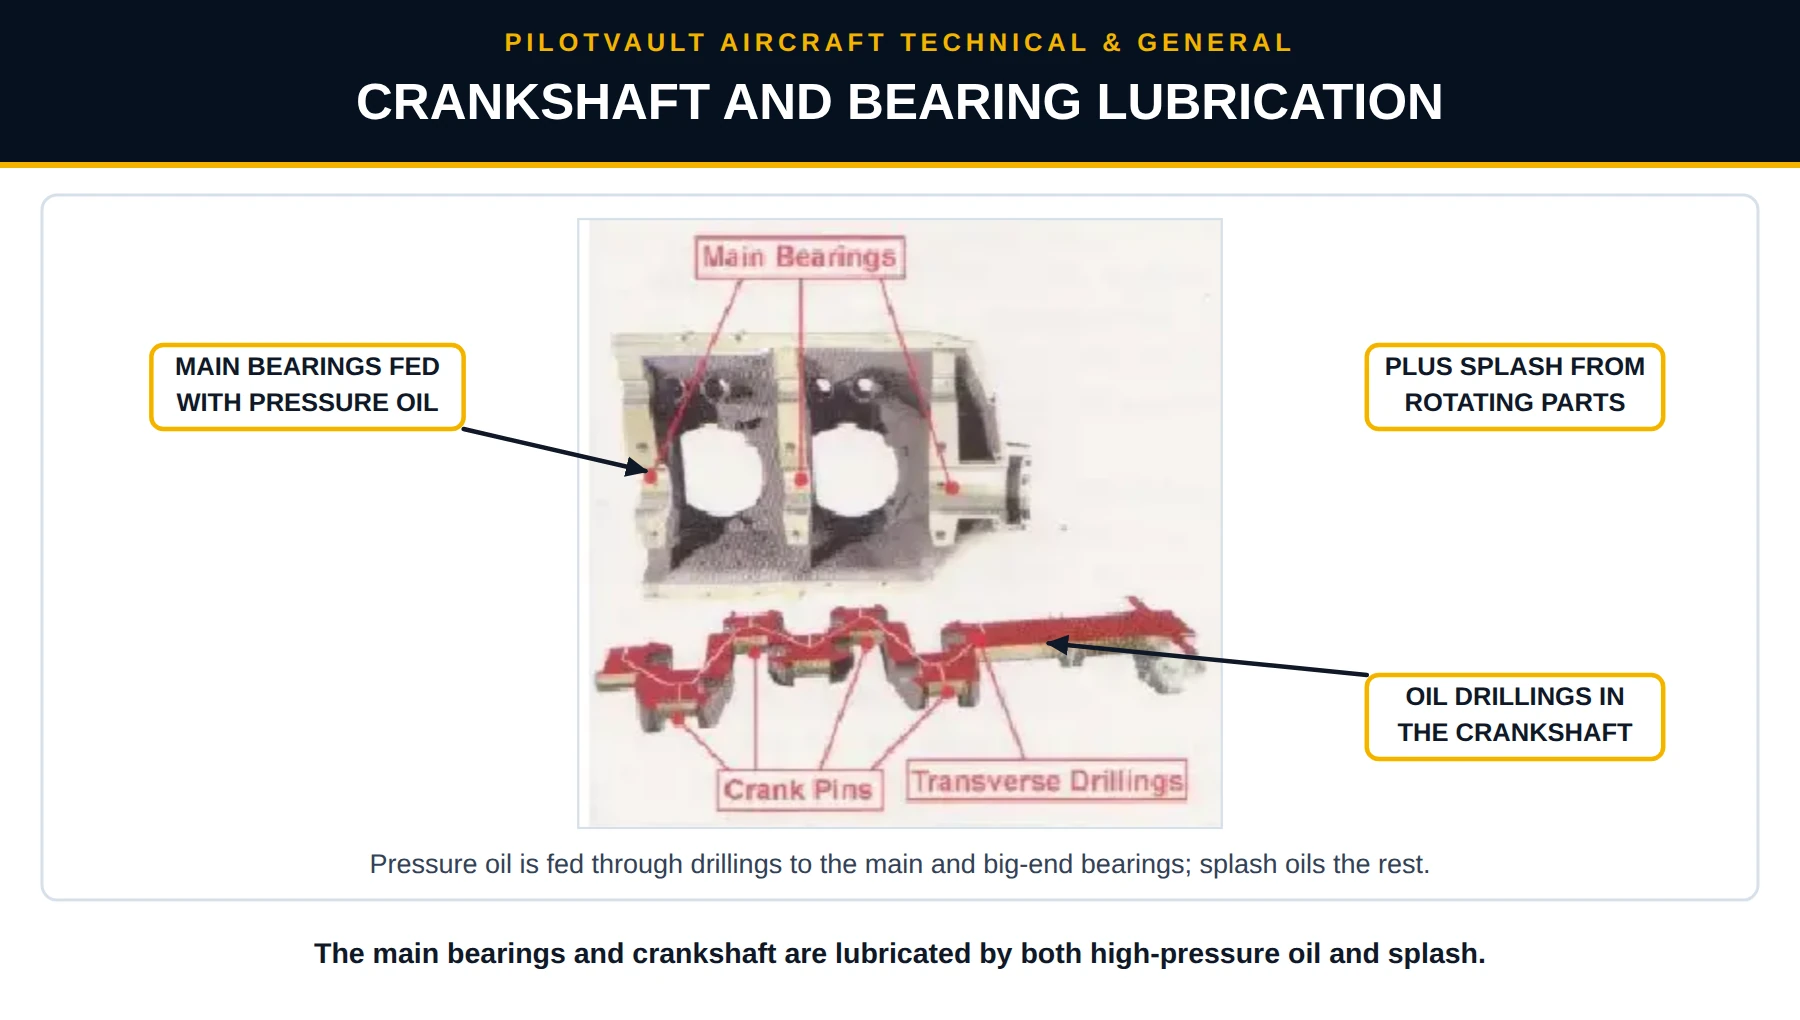
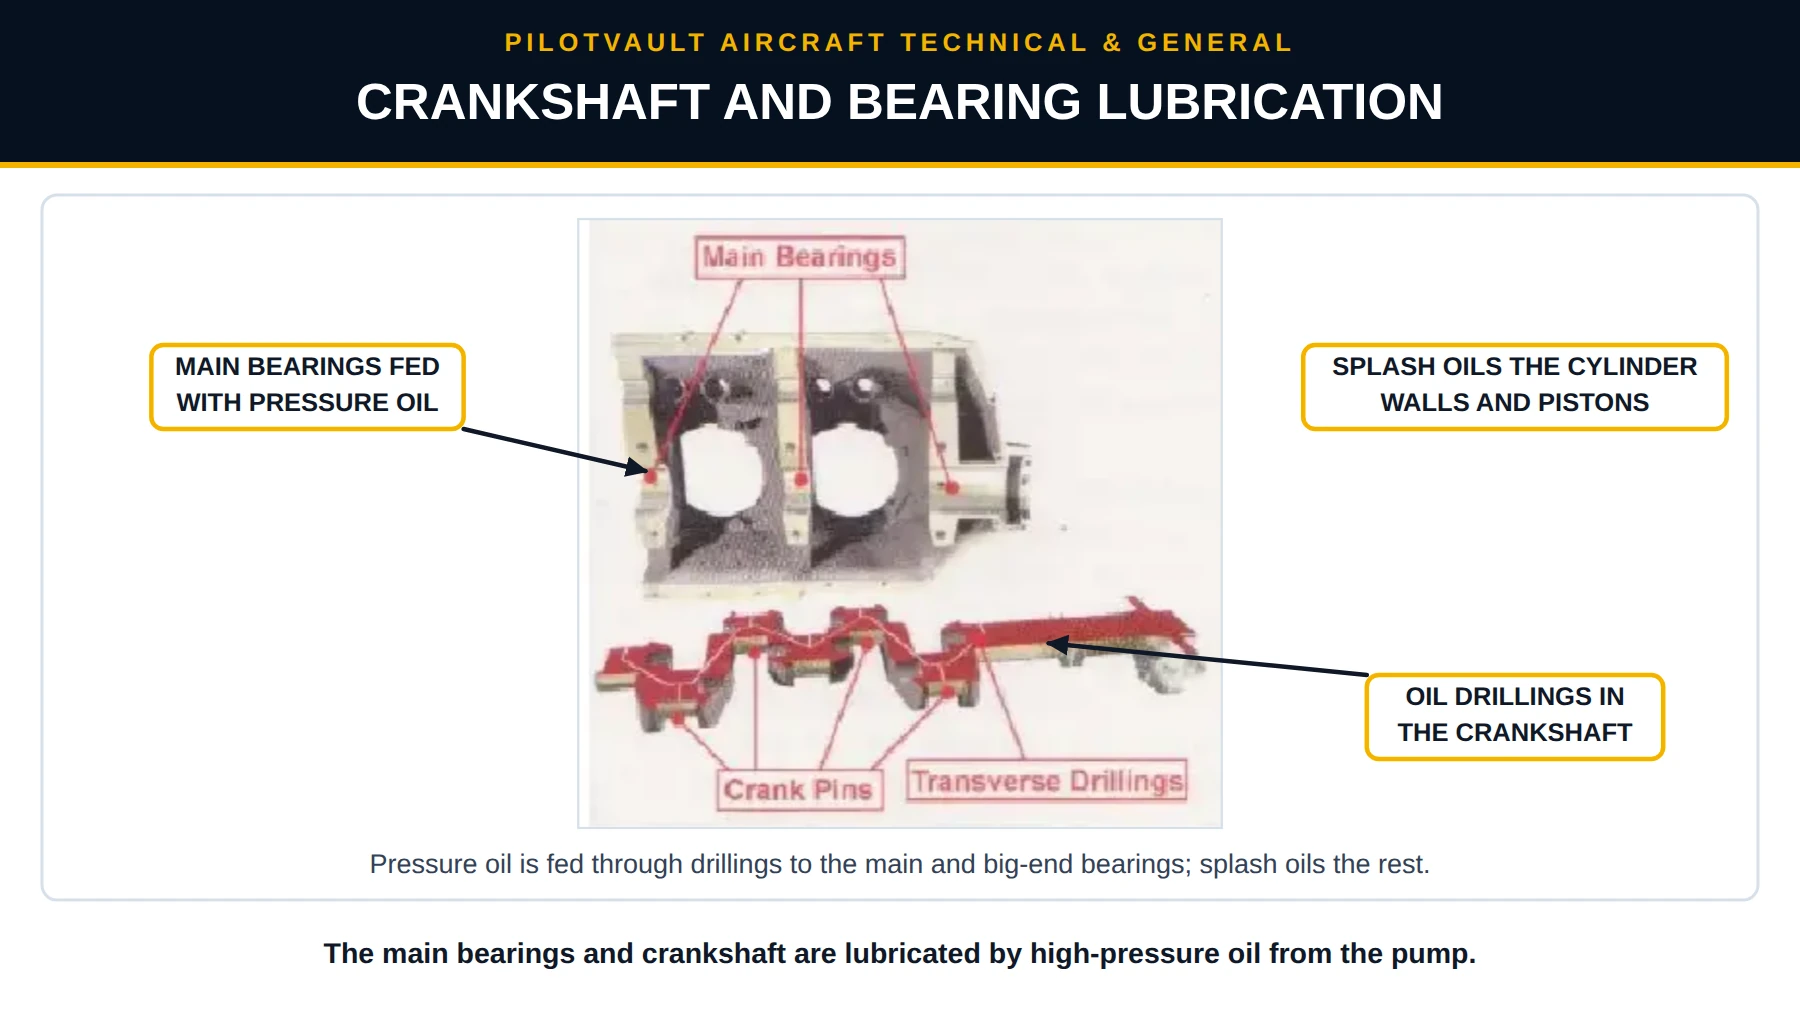
Change #2549's answer to pressure lubrication of the main bearings
The textbook feeds the main and big-end bearings with pressure oil and
leaves splash for the cylinder walls, pistons and small ends, so the
answer is now "By high-pressure oil from the pressure pump" rather than
"both high-pressure oil and splash". The diagram's footer and splash
label follow suit. apply.py takes an explicit "answer_change" reason for
a deliberate answer change; typo fixes stay limited as before.

Claude-Session: https://claude.ai/code/session_01Rrv2AtHbYfafAcVfvxwyxc

Changed region(s): [[0.7156, 0.3343, 0.9644, 0.4255], [0.1556, 0.9118, 0.84, 0.9725]]

diff --git a/scripts/atg_explanations/rewrites/lubrication.py b/scripts/atg_explanations/rewrites/lubrication.py
@@ -60,10 +60,13 @@ R = {
         "e": "In a wet-sump system, used in most light non-aerobatic aircraft, the oil is stored in the sump at the bottom of the engine. A gear-type pressure pump draws it from the sump and pushes it through the filter and galleries to the bearings, and the oil then drains back into the sump. An external tank is the dry-sump system, splash alone is not enough for the heavily loaded bearings, and oil mixed with the fuel is a two-stroke arrangement.",
     },
     2549: {
+        "answer_change": "Changed from 'both high-pressure oil and splash lubrication' to pressure lubrication, as the textbook describes (pressure oil to the main and big-end bearings; splash for the cylinder walls, pistons and small ends).",
         "a": "By splash lubrication only",
+        "b": "By high-pressure oil from the pressure pump",
+        "ans": "By high-pressure oil from the pressure pump",
         "c": "By oil mixed with the fuel",
         "d": "By grease packed into the bearings during servicing",
-        "e": "The main bearings and the crankshaft's big-end bearings are fed with high-pressure oil from the pump through the galleries and drillings in the crankshaft, because these heavily loaded bearings need a positive supply. The oil squeezed out of them is flung around by the spinning crankshaft as a mist that splash-lubricates the cylinder walls, pistons, small ends and gears, so the crank assembly relies on both. Splash alone would starve the bearings.",
+        "e": "The main bearings and the big-end bearings on the crankshaft carry the heaviest loads, so they are fed with high-pressure oil: the pump forces oil through the oil galleries to the main bearings and on through drillings in the crankshaft to the big ends. The oil mist flung off the spinning crankshaft splash-lubricates the cylinder walls, pistons, small ends and gears, but splash alone could never give these bearings the positive supply they need. Grease and fuel-oil mixtures are not used.",
     },
     2552: {
         "b": "Prevent the oil from overheating at high engine power",

diff --git a/scripts/atg_explanations/apply.py b/scripts/atg_explanations/apply.py
@@ -3,7 +3,8 @@
 Each module in rewrites/ defines R = {question_id: {"e": explanation, "a".."d": replacement option, "q": stem}}.
 Option keys are present only where a filler distractor is replaced, and "q" only where the stem itself
 needs rewording. The correct answer is never changed, except that "ans" may fix a typo in its text:
-it must then also be given in the answer's own slot, and both are updated together.
+it must then also be given in the answer's own slot, and both are updated together. A deliberate change of
+answer needs "answer_change": "<reason>" as well, which lifts the typo-only check.
 
     python3 apply.py                 validate every module
     python3 apply.py airframes ...   validate and write one combined .sql for those modules to $ATG_WORK/sql
@@ -61,11 +62,13 @@ def check(qid, change):
     new = {s: change.get(k, row[s]) for k, s in SLOTS.items()}
     answer = change.get("ans", row["correct_answer"])
     for k in change:
-        if k not in ("e", "q", "ans", *SLOTS):
+        if k not in ("e", "q", "ans", "answer_change", *SLOTS):
             errs.append(f"{qid}: unknown key {k}")
         elif k in SLOTS and row[SLOTS[k]] == row["correct_answer"] and change[k] != change.get("ans"):
             errs.append(f"{qid}: tried to replace the correct answer in slot {k}")
-    if "ans" in change:
+    if "answer_change" in change and "ans" not in change:
+        errs.append(f"{qid}: answer_change without a new 'ans'")
+    if "ans" in change and "answer_change" not in change:
         import difflib
         if difflib.SequenceMatcher(None, change["ans"].lower(), row["correct_answer"].lower()).ratio() < 0.9:
             errs.append(f"{qid}: 'ans' is more than a typo fix")

diff --git a/scripts/atg_visuals/extracted.py b/scripts/atg_visuals/extracted.py
@@ -66,11 +66,11 @@ ITEMS = {
             FIGS / "p91-1.png",
             "CRANKSHAFT AND BEARING LUBRICATION",
             "Pressure oil is fed through drillings to the main and big-end bearings; splash oils the rest.",
-            "The main bearings and crankshaft are lubricated by both high-pressure oil and splash.",
+            "The main bearings and crankshaft are lubricated by high-pressure oil from the pump.",
             notes=[
                 ("MAIN BEARINGS FED\nWITH PRESSURE OIL", (205, 250), (80, 300), "middle"),
                 ("OIL DRILLINGS IN\nTHE CRANKSHAFT", (1010, 470), (560, 505), "middle"),
-                ("PLUS SPLASH FROM\nROTATING PARTS", (1010, 250), (None, None), "middle"),
+                ("SPLASH OILS THE CYLINDER\nWALLS AND PISTONS", (1010, 250), (None, None), "middle"),
             ],
         ),
         "q2533-oil-cooler-ram-air": lambda: frame(
